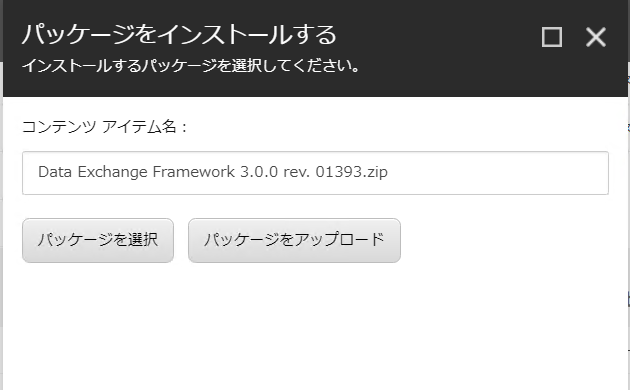
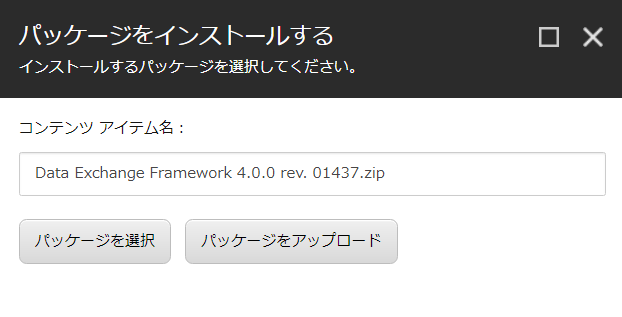
update dxf 400 for crm

Changed region(s): [[0.0, 0.0, 1.0, 1.0]]

diff --git a/93/modules/salesforcecrm.rst b/93/modules/salesforcecrm.rst
@@ -156,12 +156,6 @@ CRM 項目のカスタマイズ（オプション）
    :alt: 日本語リソース
 
 * 「項目とリレーション」を選択します。
-
-.. image:: images/sxa03.png
-   :align: center
-   :width: 400px
-   :alt: 日本語リソース
-
 * 右上のメニューから「新規」をクリックして実行。
 * データ型では「テキスト」を選択します、選択したら次へ。
 
@@ -319,7 +313,7 @@ xConnect Collection Model の展開
    :alt: モデルを JSON に変換する
 
 * JSON ファイルのダウンロードが完了します。
-* xConnect のサーバー（例： C:\\inetpub\\wwwroot\\92xconnect.dev.local）に、ダウンロードした JSON ファイルをコピーします。コピー先は以下の2か所です。
+* xConnect のサーバー（例： C:\\inetpub\\wwwroot\\93xconnect.dev.local）に、ダウンロードした JSON ファイルをコピーします。コピー先は以下の2か所です。
 
     * \\App_Data\\Models\\
     * \\App_Data\\jobs\\continuous\\IndexWorker\\App_Data\\Models\\

diff --git a/92/modules/salesforcecrm.rst b/92/modules/salesforcecrm.rst
@@ -156,12 +156,6 @@ CRM 項目のカスタマイズ（オプション）
    :alt: 日本語リソース
 
 * 「項目とリレーション」を選択します。
-
-.. image:: images/sxa03.png
-   :align: center
-   :width: 400px
-   :alt: 日本語リソース
-
 * 右上のメニューから「新規」をクリックして実行。
 * データ型では「テキスト」を選択します、選択したら次へ。
 

diff --git a/93/modules/dynamicscrm.rst b/93/modules/dynamicscrm.rst
@@ -36,7 +36,7 @@ Sitecore Experience Platform では Dynamics 365 CRM と連携するためのモ
 
 * まず最初に、`Data Exchange Framework 4.0.0` のファイルをアップロードします（すでにインストール済の場合は省略できます）。
 
-.. image:: images/dcrm01.png
+.. image:: images/sfcrm01.png
    :align: center
    :width: 400px
    :alt: Data Exchange Framework
